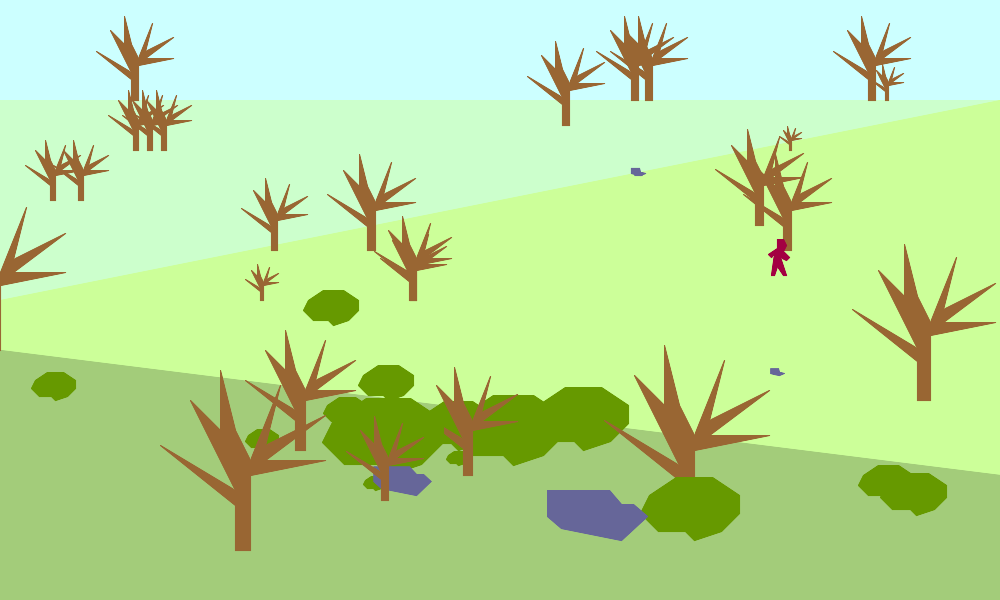
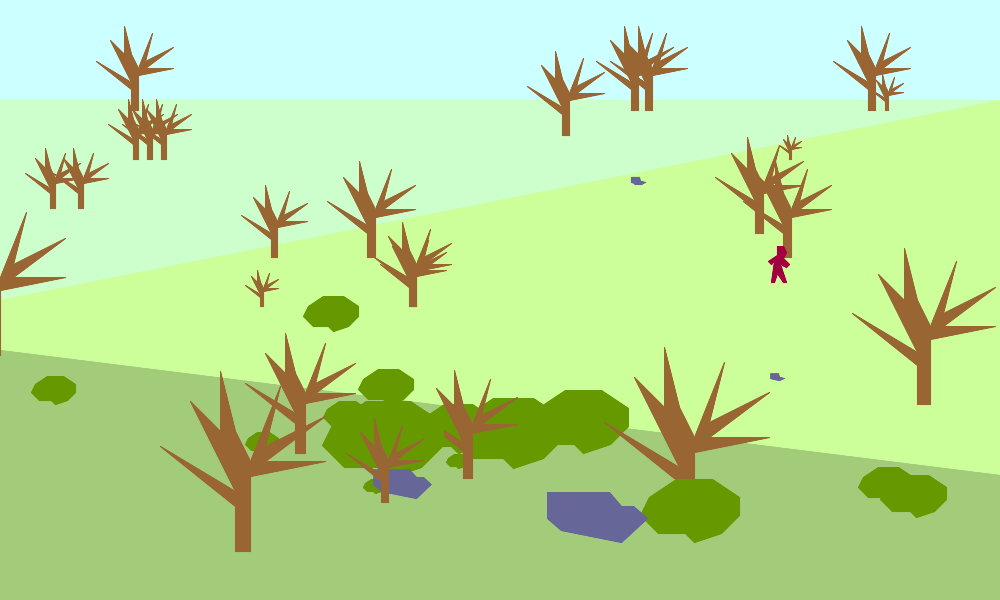
tweaked getOriginY function to slightly shift down objects in the distance

diff --git a/js/functions.js b/js/functions.js
@@ -15,7 +15,7 @@ module.exports = function (image) {
         MAX_SIZE = 10;;
 
     var getOriginY = function (y_val) {
-        return TOTAL_HEIGHT - Math.floor(HEIGHT * (y_val / MAX_DIST));
+        return TOTAL_HEIGHT - Math.floor(HEIGHT * (y_val / MAX_DIST) - (10 * (y_val / MAX_DIST)));
     }
 
     var getOriginX = function (x_val) {

diff --git a/js/gardenPerspDraw.js b/js/gardenPerspDraw.js
@@ -74,7 +74,7 @@
 
             })();
 
-            var draw = require("./gardenPerspDrawFunctions.js")(drawing);
+            var draw = require("./functions.js")(drawing);
 
             (function () {
 
@@ -112,4 +112,4 @@
             });
         }
     } 
-)();
+})();
